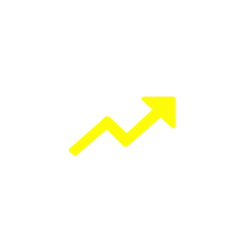
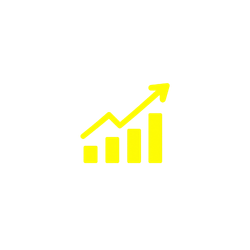
Add files via upload

Changed region(s): [[0.28, 0.308, 0.728, 0.672]]

diff --git a/index.html b/index.html
@@ -1389,7 +1389,7 @@ transform: translate(-213px, -16px);
   width:42px;
   height:42px;
   margin:0 auto;
-  transform:translateY(-7px) scale(2.4);
+  transform:translateY(-7px) scale(1.7);
   transform-origin:center;
 }
 
@@ -2795,7 +2795,7 @@ box-sizing: border-box;
 
 
 
-</section>
+</section>  
   <section class="stats">
 
 <div class="stat">
@@ -3346,7 +3346,7 @@ onclick="this.classList.add('pressed');setTimeout(()=>this.classList.remove('pre
 
     <div class="balance-stat">
         <div class="stat-icon"> 
-  <img src="./images/ethyellow.png" alt="">
+  <img src="./images/todayyellow.png" alt=""> 
 </div>
         <div class="stat-label">今日收益（ETH）</div>
         <div class="stat-value">0.000000</div>
